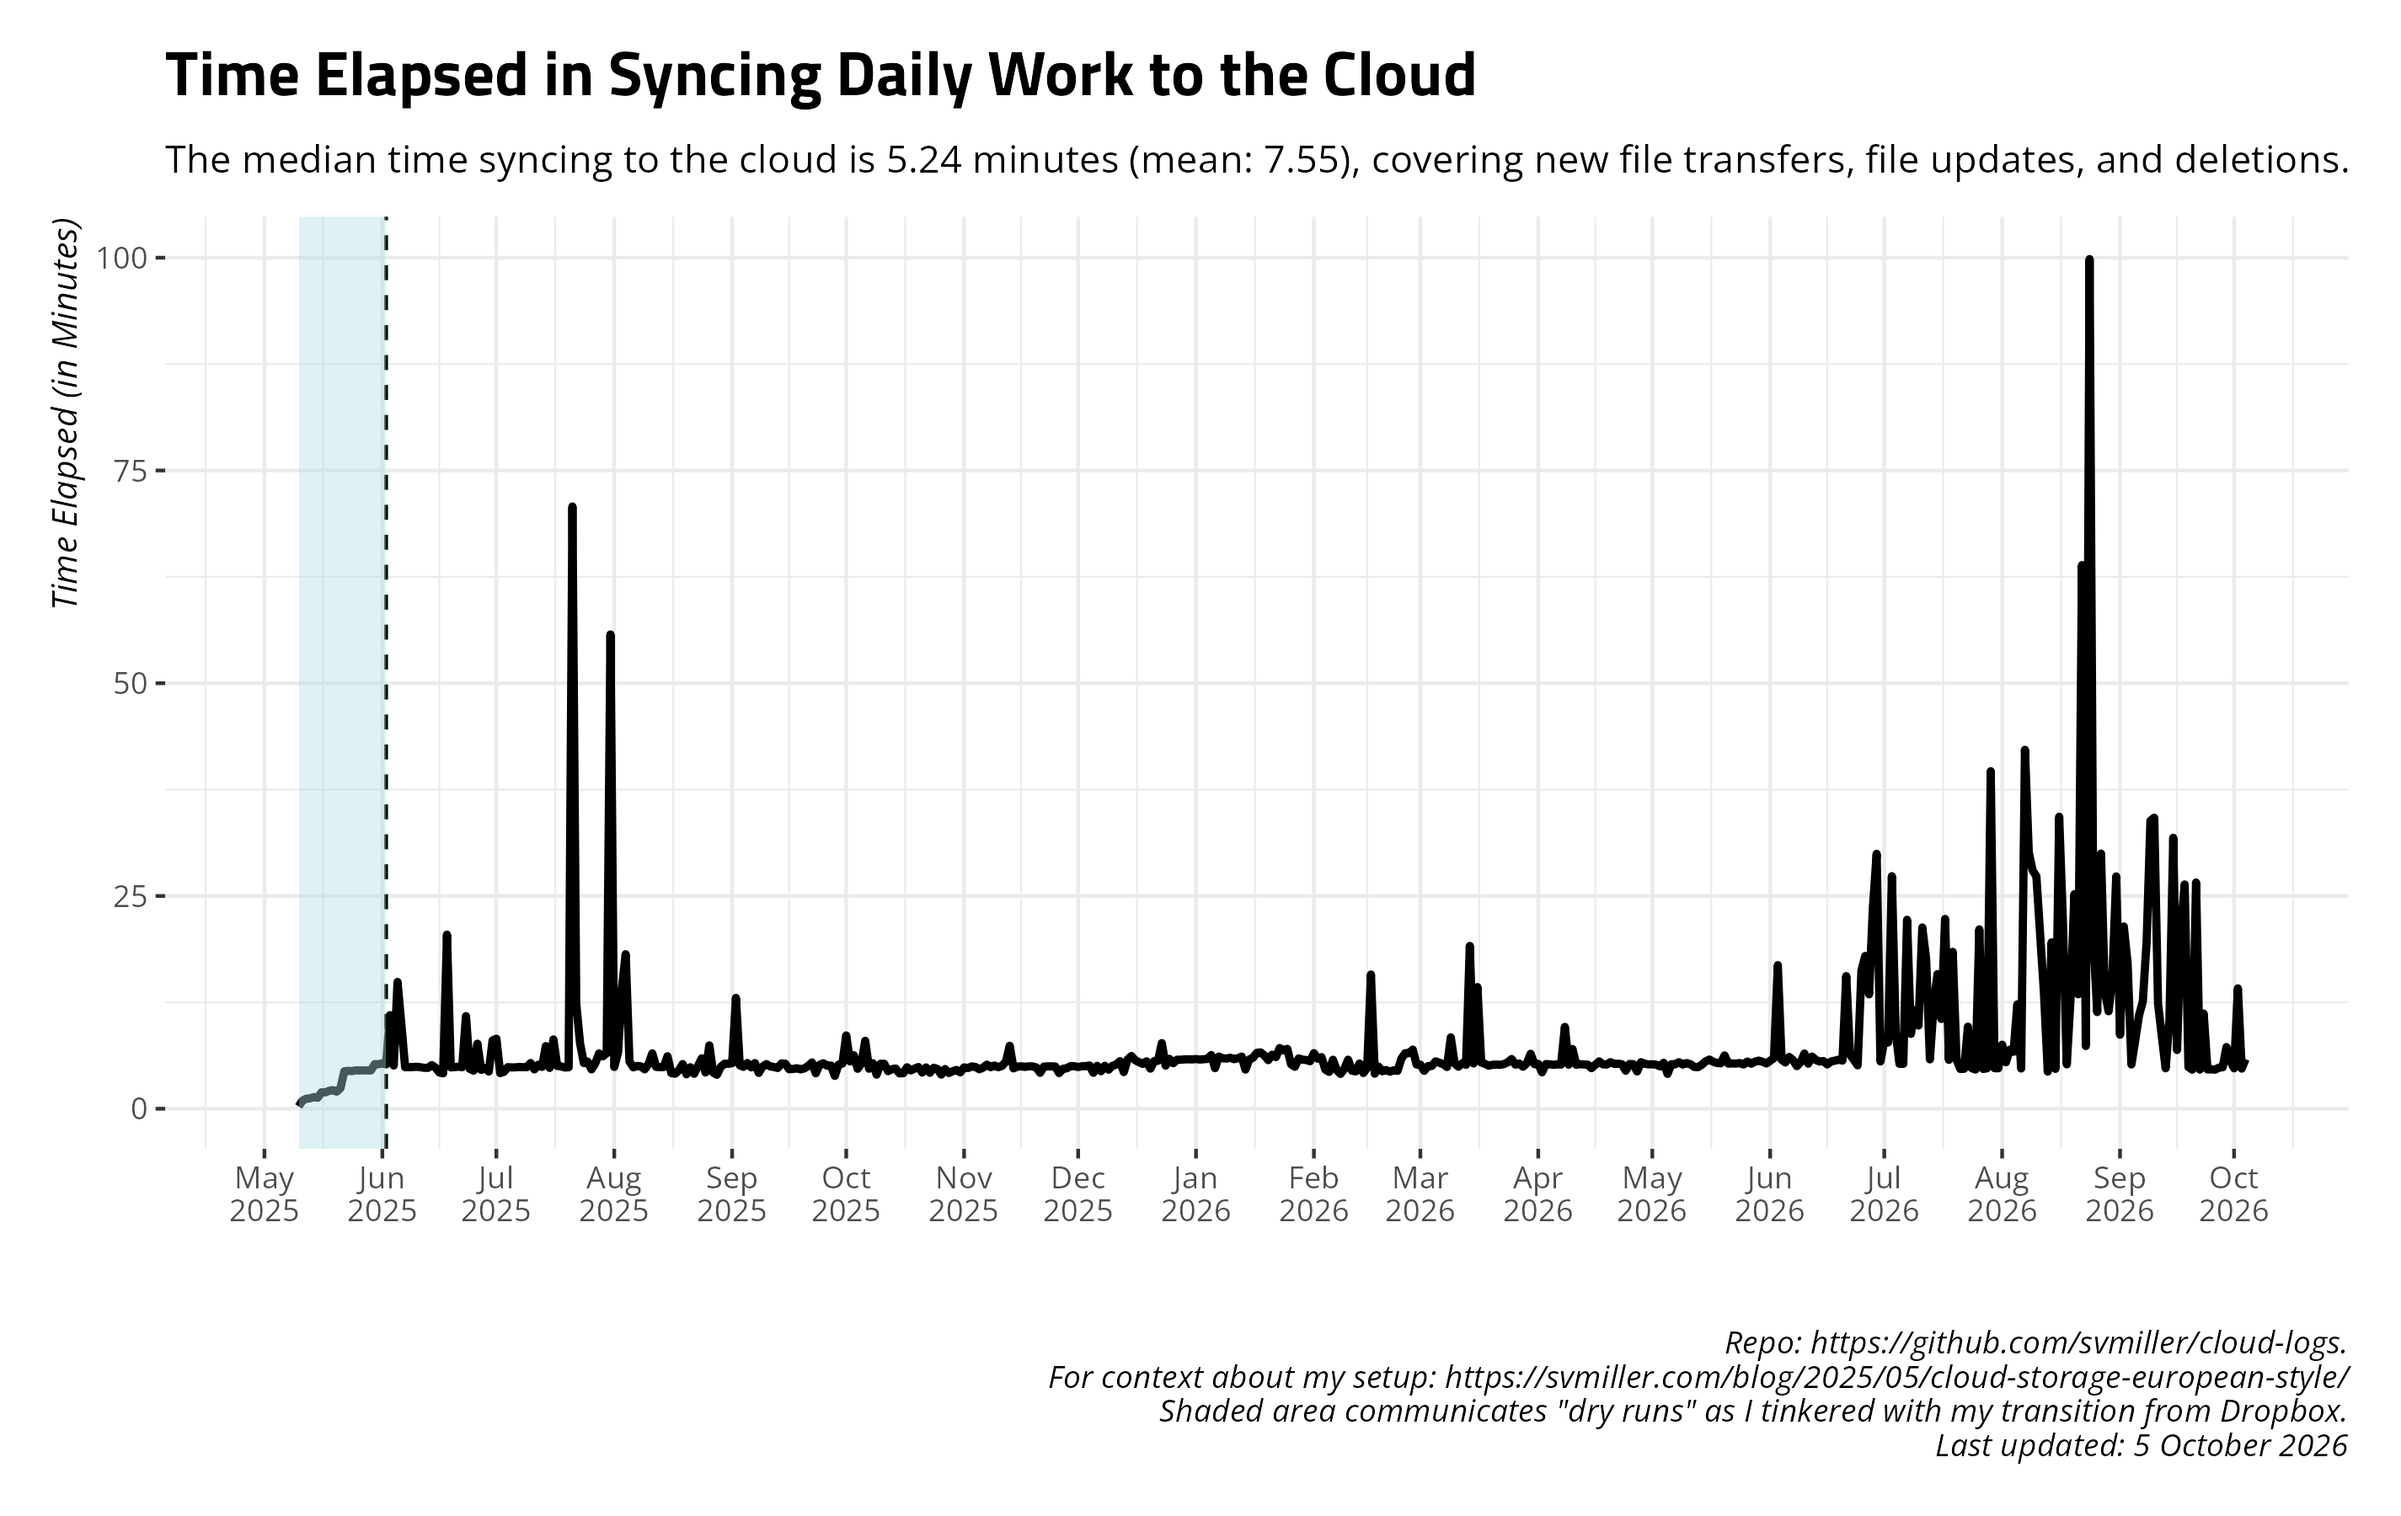
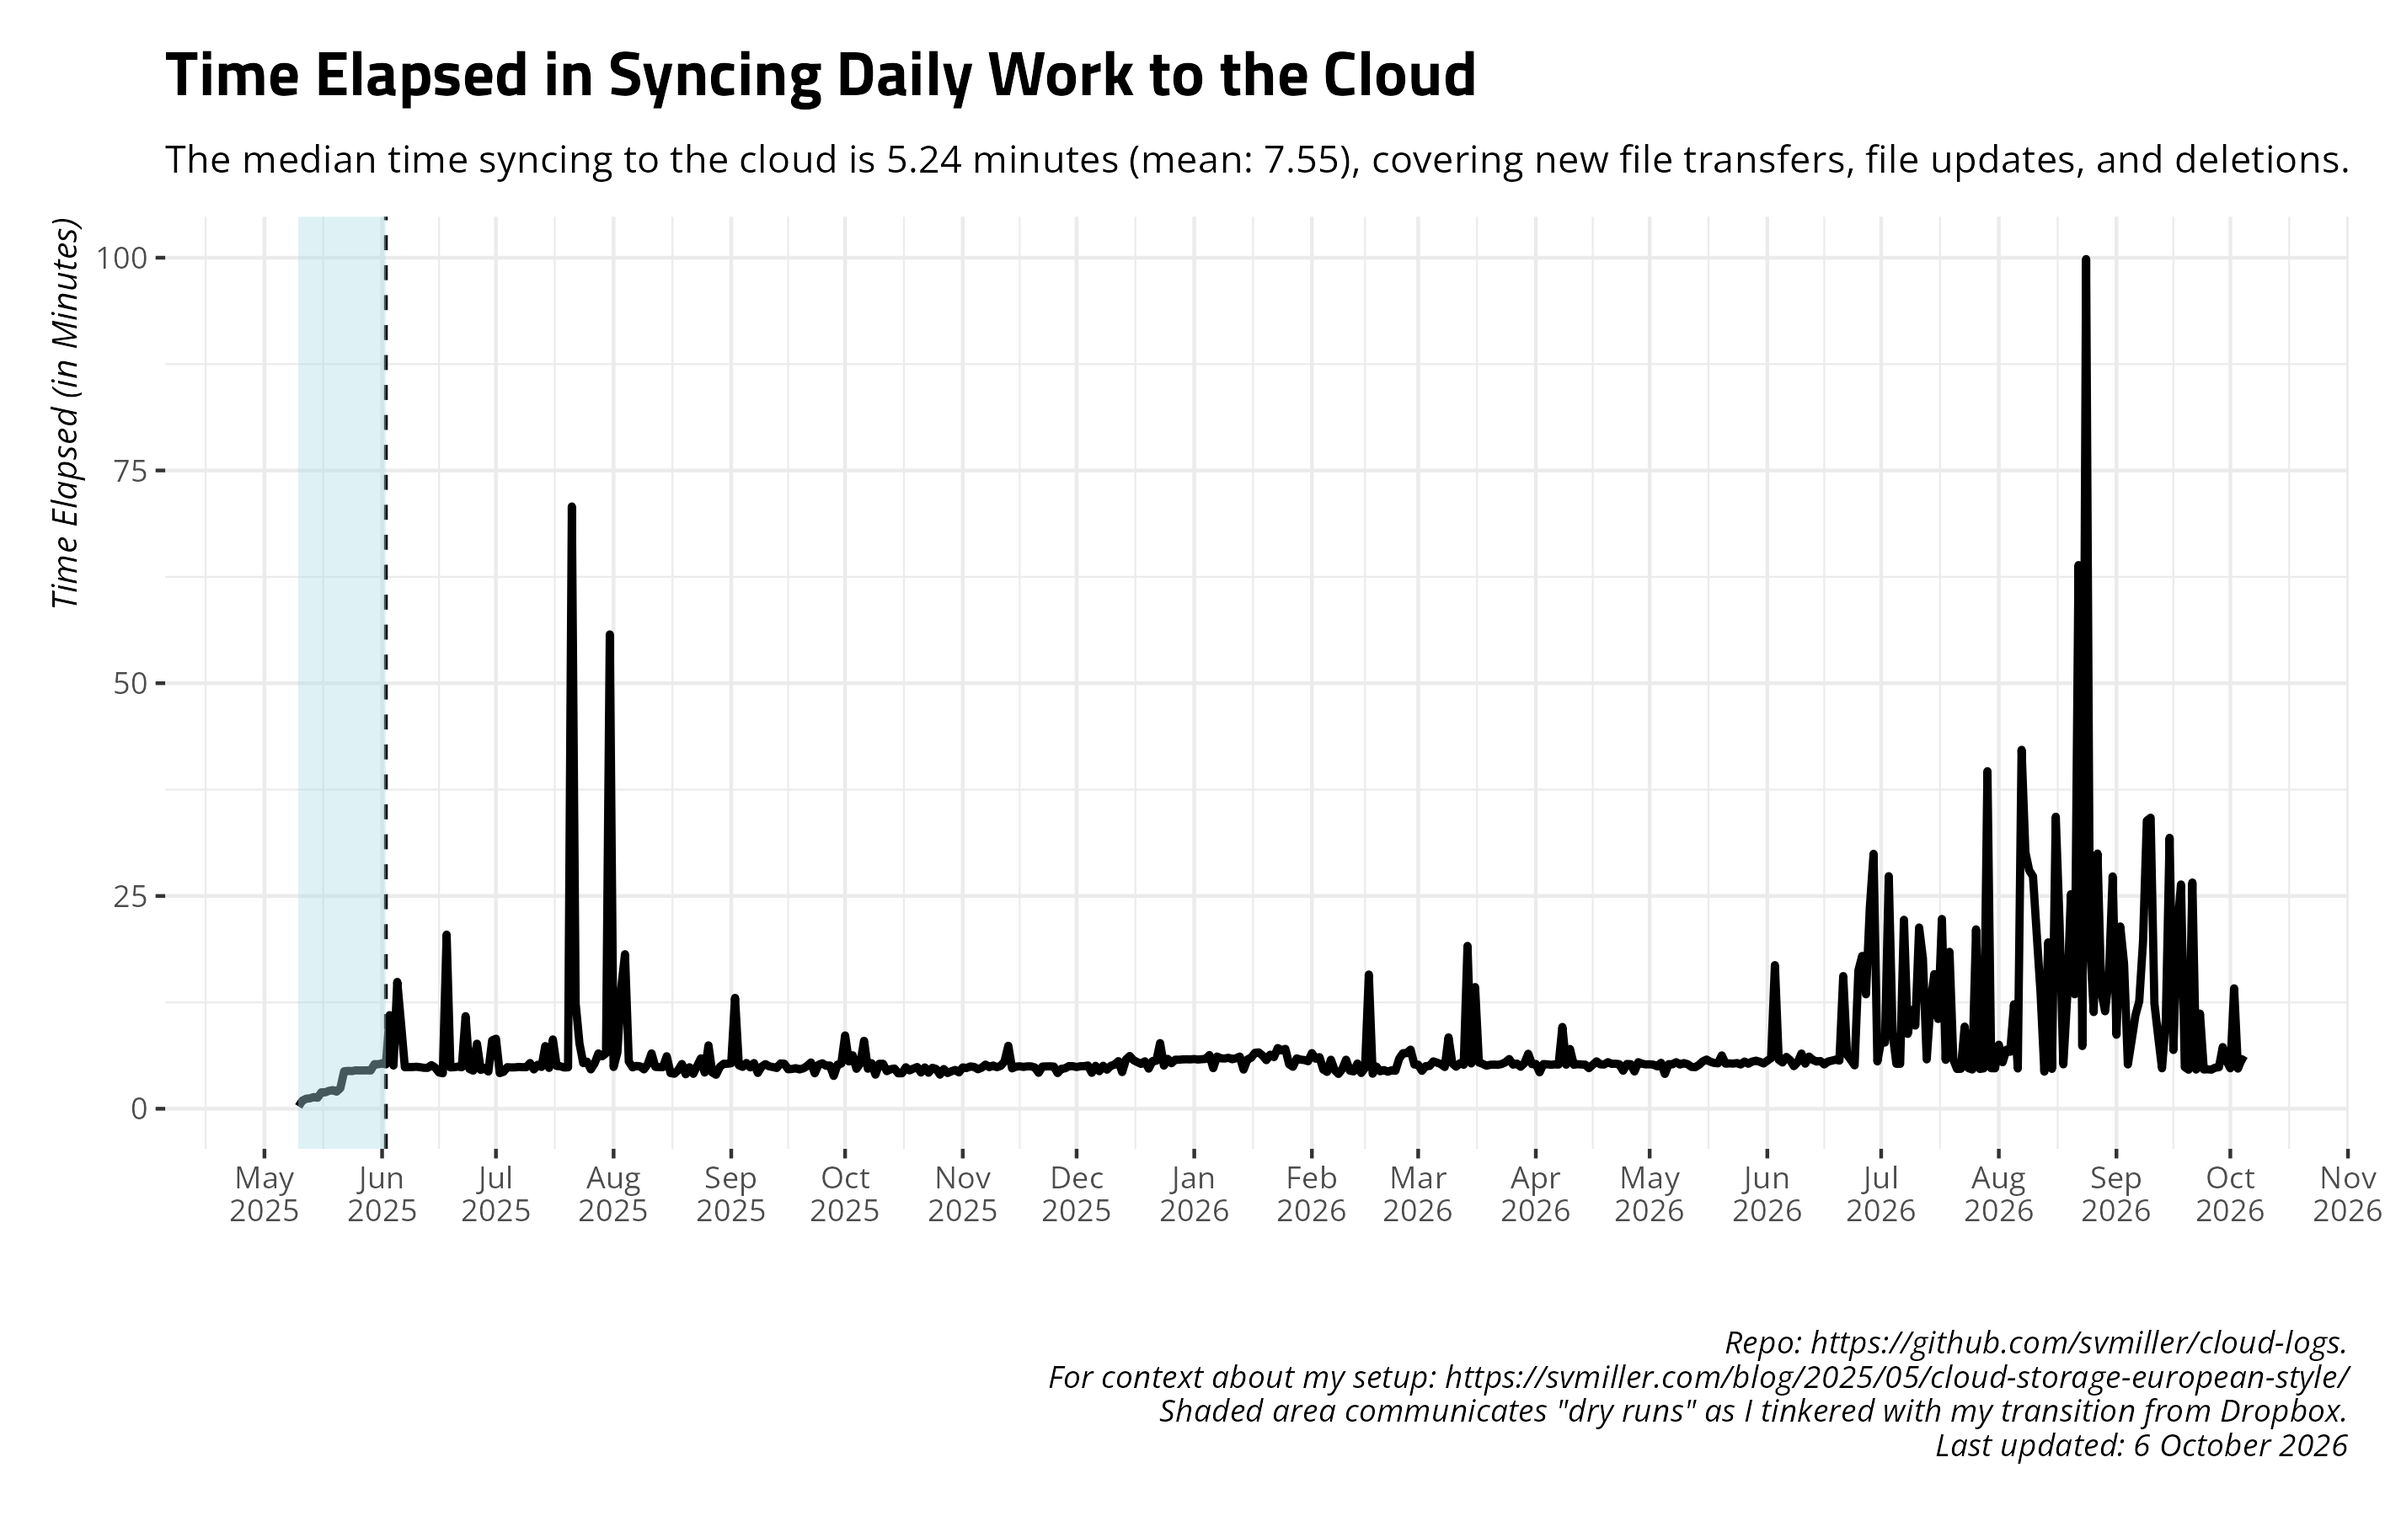
Date: 2026-10-06 09:00:36. Hi mom!

diff --git a/README.md b/README.md
@@ -27,17 +27,17 @@ and uploads to Github.
     #> # A tibble: 14 × 4
     #>    date       ftransfer stransfer   elapsed 
     #>    <date>         <dbl> <chr>       <chr>   
-    #>  1 2026-09-21        17 2.403 MiB   26m34.9s
-    #>  2 2026-09-22        46 2.190 MiB   4m36.1s 
-    #>  3 2026-09-23        63 398.606 MiB 11m10.7s
-    #>  4 2026-09-24        13 38.466 MiB  4m36.8s 
-    #>  5 2026-09-25         4 5.267 MiB   4m38.0s 
-    #>  6 2026-09-26         0 <NA>        4m35.3s 
-    #>  7 2026-09-27         0 <NA>        4m49.5s 
-    #>  8 2026-09-28        22 176.927 KiB 4m52.5s 
-    #>  9 2026-09-29        11 2.087 MiB   7m14.5s 
-    #> 10 2026-09-30         7 1.422 GiB   5m36.9s 
-    #> 11 2026-10-01        34 8.149 MiB   4m45.0s 
-    #> 12 2026-10-02        29 8.205 MiB   14m8.7s 
-    #> 13 2026-10-03         0 <NA>        4m42.9s 
-    #> 14 2026-10-04         0 <NA>        5m49.6s
+    #>  1 2026-09-22        46 2.190 MiB   4m36.1s 
+    #>  2 2026-09-23        63 398.606 MiB 11m10.7s
+    #>  3 2026-09-24        13 38.466 MiB  4m36.8s 
+    #>  4 2026-09-25         4 5.267 MiB   4m38.0s 
+    #>  5 2026-09-26         0 <NA>        4m35.3s 
+    #>  6 2026-09-27         0 <NA>        4m49.5s 
+    #>  7 2026-09-28        22 176.927 KiB 4m52.5s 
+    #>  8 2026-09-29        11 2.087 MiB   7m14.5s 
+    #>  9 2026-09-30         7 1.422 GiB   5m36.9s 
+    #> 10 2026-10-01        34 8.149 MiB   4m45.0s 
+    #> 11 2026-10-02        29 8.205 MiB   14m8.7s 
+    #> 12 2026-10-03         0 <NA>        4m42.9s 
+    #> 13 2026-10-04         0 <NA>        5m49.6s 
+    #> 14 2026-10-05        20 250.633 KiB 5m33.2s
